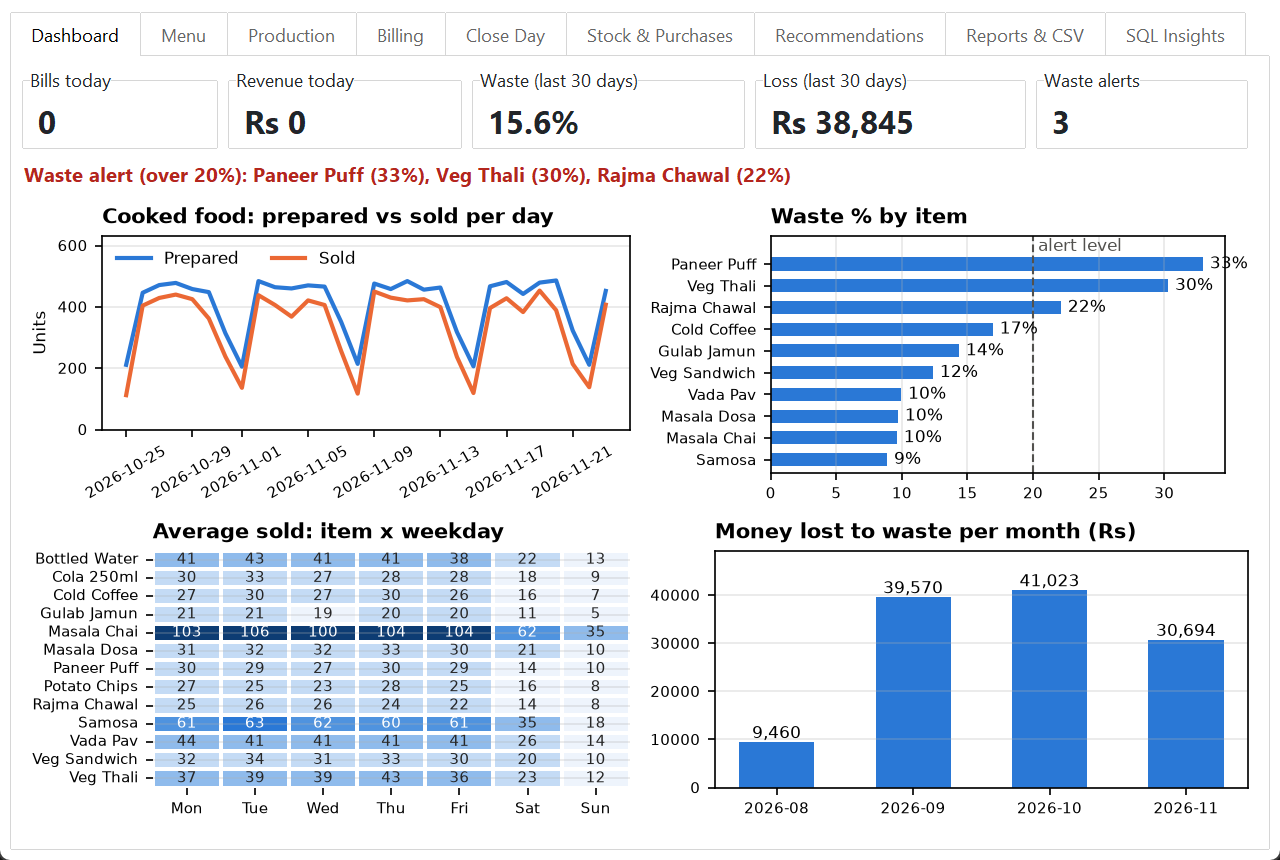
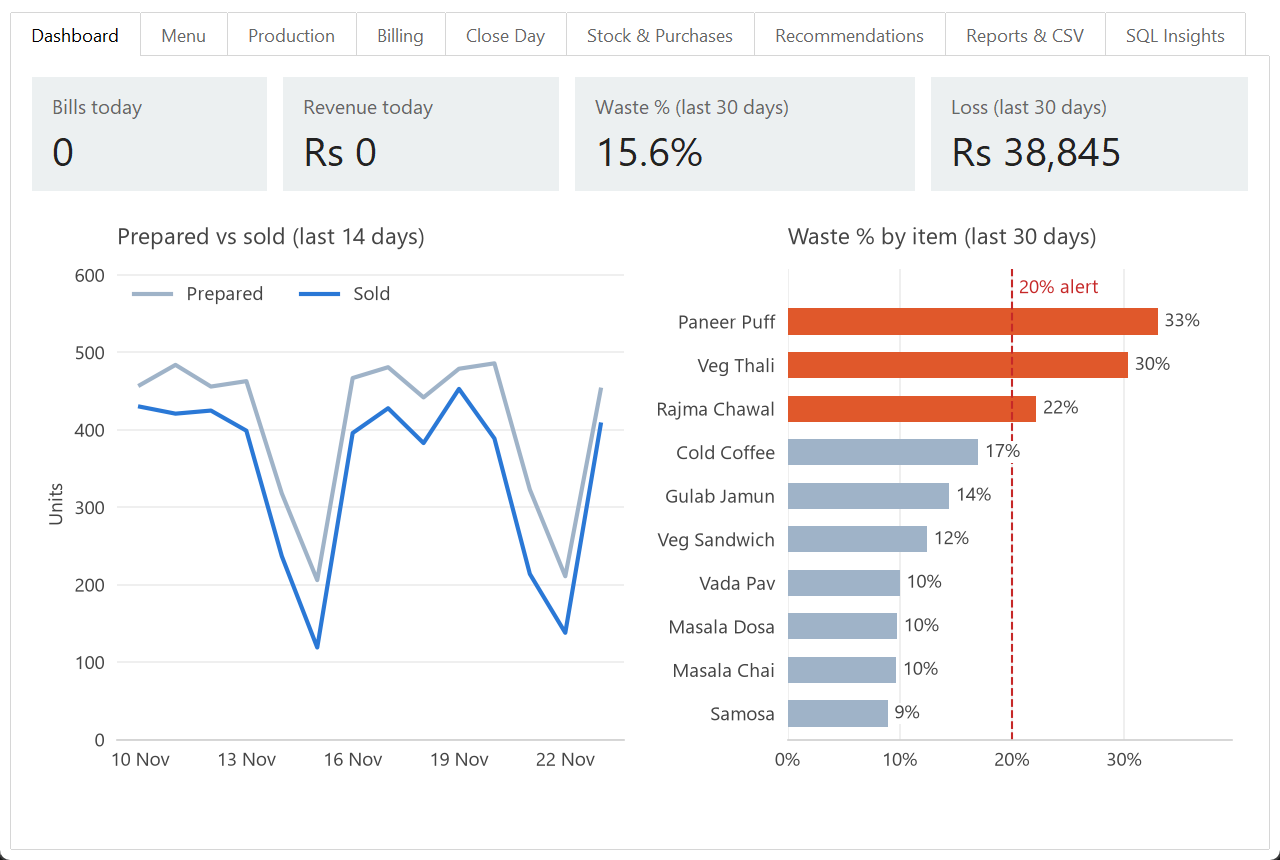
Redesign Dashboard: 4 KPI cards, 2 clean charts; move other charts to Reports tab
- One chart style: no box borders, light gridlines, same font, plain titles
- Waste % chart highlights items over the 20% alert in orange-red
- Heatmap replaced by average cooked food sold by weekday
- Monthly loss shows complete months only, with comma-formatted Rs
- Update README screenshots

diff --git a/app/charts.py b/app/charts.py
@@ -1,32 +1,46 @@
-"""The 4 dashboard charts, drawn with matplotlib and seaborn."""
+"""The 4 charts (2 on the Dashboard, 2 on the Reports tab), drawn with matplotlib and seaborn."""
 
+from datetime import date
+
+import matplotlib
 import pandas as pd
 import seaborn as sns
+from matplotlib.backends.backend_tkagg import FigureCanvasTkAgg
 from matplotlib.figure import Figure
 
 from app import analysis, db
 from app.algorithms import merge_sort
 
 BLUE = "#2a78d6"
-ORANGE = "#eb6834"
-GREY = "#52514e"
-HEATMAP_COLOURS = ["#eef4fc", "#c4dbf5", "#8fbbec", "#4f93df", "#2a78d6", "#1d5aa6", "#0d3c73"]   # light -> dark
+GREY_BLUE = "#9fb3c8"
+ALERT = "#e0582b"            # orange-red, used only for waste alerts
+RED = "#c62828"
+TEXT = "#444444"
+LIGHT = "#d0d0d0"
 WEEKDAYS = ["Mon", "Tue", "Wed", "Thu", "Fri", "Sat", "Sun"]
 
+# One style for every chart: same font, small text, no bold titles.
+matplotlib.rcParams.update({"font.family": ["Segoe UI", "DejaVu Sans"], "font.size": 9,
+                            "text.color": TEXT, "axes.labelcolor": TEXT,
+                            "xtick.color": TEXT, "ytick.color": TEXT})
 
-def new_chart(title):
-    """A blank chart with a title and a light grid."""
-    fig = Figure(figsize=(5.6, 2.05), dpi=100, layout="constrained")
+
+def new_chart(title, grid_axis="y"):
+    """A blank chart: title, light gridlines, only a light bottom axis."""
+    fig = Figure(figsize=(6, 3.7), dpi=100, layout="constrained")
     ax = fig.add_subplot()
-    ax.set_title(title, loc="left", fontsize=10, fontweight="bold")
-    ax.tick_params(labelsize=7)
-    ax.grid(axis="y", alpha=0.3)
+    ax.set_title(title, loc="left", fontsize=11, pad=12)
+    sns.despine(ax=ax, left=True)                      # remove the box, keep the bottom axis
+    ax.spines["bottom"].set_color(LIGHT)
+    ax.tick_params(length=0, pad=6)
+    ax.grid(axis=grid_axis, color="#ececec")
+    ax.set_axisbelow(True)
     return fig, ax
 
 
 def prepared_vs_sold(rows):
     """Line chart: total cooked food prepared vs sold per day."""
-    fig, ax = new_chart("Cooked food: prepared vs sold per day")
+    fig, ax = new_chart("Prepared vs sold (last 14 days)")
     days = {}                                         # date -> [prepared, sold]
     for row in rows:
         if row["Is_Perishable"]:
@@ -34,62 +48,82 @@ def prepared_vs_sold(rows):
             totals[0] += row["Quantity_Prepared"]
             totals[1] += row["Quantity_Sold"]
     dates = merge_sort(list(days))
-    ax.plot(dates, [days[d][0] for d in dates], color=BLUE, linewidth=2, label="Prepared")
-    ax.plot(dates, [days[d][1] for d in dates], color=ORANGE, linewidth=2, label="Sold")
-    ax.set_ylim(0, max(days[d][0] for d in dates) * 1.3)     # room above the lines for the legend
-    ax.legend(frameon=False, fontsize=8, loc="upper left", ncols=2)
-    ax.set_ylabel("Units", fontsize=8)
-    ax.tick_params(axis="x", rotation=30)              # tilted so the dates do not overlap
+    x = range(len(dates))
+    ax.plot(x, [days[d][0] for d in dates], color=GREY_BLUE, linewidth=2, label="Prepared")
+    ax.plot(x, [days[d][1] for d in dates], color=BLUE, linewidth=2, label="Sold")
+    ax.set_xticks(x[::3], [f"{d.day} {d:%b}" for d in dates[::3]])     # about 5 labels, e.g. "25 Oct"
+    ax.set_ylim(0, max(days[d][0] for d in dates) * 1.25)              # room above the lines for the legend
+    ax.legend(frameon=False, loc="upper left", ncols=2)
+    ax.set_ylabel("Units")
     return fig
 
 
 def waste_by_item(summary):
-    """Bar chart: waste % per cooked item, with the alert level."""
-    fig, ax = new_chart("Waste % by item")
+    """Bar chart: waste % per cooked item; items over the alert level in orange-red."""
+    fig, ax = new_chart("Waste % by item (last 30 days)", grid_axis="x")
     items = merge_sort([i for i in summary if i["perishable"]], key=lambda i: i["waste_pct"])
-    ax.barh([i["name"] for i in items], [i["waste_pct"] for i in items], color=BLUE, height=0.6)
-    ax.axvline(analysis.WASTE_ALERT_PCT, color=GREY, linestyle="--", linewidth=1)
-    ax.text(analysis.WASTE_ALERT_PCT, len(items) - 0.4, " alert level", color=GREY, fontsize=8)
-    ax.set_ylim(-0.6, len(items) + 0.3)                 # room above the top bar for the label
+    limit = analysis.WASTE_ALERT_PCT
+    colours = [ALERT if i["waste_pct"] > limit else GREY_BLUE for i in items]
+    ax.barh([i["name"] for i in items], [i["waste_pct"] for i in items], color=colours, height=0.6)
     for y, item in enumerate(items):
-        ax.text(item["waste_pct"] + 0.5, y, f"{item['waste_pct']:.0f}%", va="center", fontsize=8)
-    ax.grid(axis="y", visible=False)
-    ax.grid(axis="x", alpha=0.3)
+        ax.text(item["waste_pct"] + 0.6, y, f"{item['waste_pct']:.0f}%", va="center",
+                bbox={"facecolor": "white", "edgecolor": "none", "pad": 1})   # white box so the line does not cross it
+    ax.axvline(limit, color=RED, linestyle="--", linewidth=1)
+    ax.text(limit + 0.6, len(items) - 0.35, f"{limit}% alert", color=RED)   # in the empty row above the bars
+    ax.set_ylim(-0.6, len(items) + 0.2)
+    ax.set_xlim(0, max(max(i["waste_pct"] for i in items), limit) * 1.2)    # room for the % labels
+    ax.xaxis.set_major_formatter("{x:.0f}%")
     return fig
 
 
-def weekday_heatmap(rows):
-    """Heatmap: average units sold of each item on each day of the week."""
-    fig, ax = new_chart("Average sold: item x weekday")
+def weekday_sales(rows):
+    """Bar chart: average cooked units sold on each day of the week."""
+    fig, ax = new_chart("Average cooked food sold by weekday")
     df = pd.DataFrame(rows)
-    df["Weekday"] = pd.to_datetime(df["Demand_Date"]).dt.day_of_week
-    table = df.pivot_table(index="Food_Name", columns="Weekday", values="Quantity_Sold", aggfunc="mean")
-    table.columns = [WEEKDAYS[d] for d in table.columns]
-    sns.heatmap(table, ax=ax, cmap=HEATMAP_COLOURS, annot=True, fmt=".0f", annot_kws={"fontsize": 7},
-                linewidths=1, linecolor="white", cbar=False)
-    ax.set_xlabel("")
-    ax.set_ylabel("")
+    df = df[df["Is_Perishable"] == 1]
+    per_day = df.groupby("Demand_Date")["Quantity_Sold"].sum().reset_index()       # total sold each day
+    per_day["Weekday"] = pd.to_datetime(per_day["Demand_Date"]).dt.day_of_week
+    averages = per_day.groupby("Weekday")["Quantity_Sold"].mean()
+    ax.bar([WEEKDAYS[d] for d in averages.index], averages.values, color=BLUE, width=0.6)
+    ax.set_ylabel("Units")
     return fig
 
 
-def monthly_loss_chart(rows):
-    """Bar chart: money lost to waste each month."""
-    fig, ax = new_chart("Money lost to waste per month (Rs)")
-    months = [r["Month"] for r in rows]
+def monthly_loss_chart(rows, first_day):
+    """Bar chart: money lost to waste in each complete month."""
+    fig, ax = new_chart("Money lost to waste per month")
+    start = f"{first_day:%Y-%m}"                # complete only if the data starts on the 1st
+    this_month = f"{date.today():%Y-%m}"        # still running, so not complete
+    rows = [r for r in rows if this_month > r["Month"] > start or (r["Month"] == start and first_day.day == 1)]
+    labels = [pd.Timestamp(r["Month"] + "-01").strftime("%b %Y") for r in rows]
     losses = [float(r["Loss"]) for r in rows]
-    ax.bar(months, losses, color=BLUE, width=0.55)
-    ax.set_ylim(0, max(losses) * 1.2)                   # room above the bars for the numbers
+    ax.bar(labels, losses, color=BLUE, width=0.5)
     for x, loss in enumerate(losses):
-        ax.text(x, loss, f"{loss:,.0f}", ha="center", va="bottom", fontsize=8)
+        ax.text(x, loss, f"Rs {loss:,.0f}", ha="center", va="bottom")
+    ax.set_ylim(0, max(losses, default=1) * 1.2)       # room above the bars for the numbers
+    ax.yaxis.set_major_formatter("{x:,.0f}")
+    ax.set_ylabel("Rs")
     return fig
 
 
-def all_charts():
-    """All 4 charts as {name: Figure}."""
-    rows_30 = analysis.load_days(30)
-    return {
-        "prepared_vs_sold": prepared_vs_sold(rows_30),
-        "waste_by_item": waste_by_item(analysis.item_summary(rows_30)),
-        "weekday_heatmap": weekday_heatmap(analysis.load_days(90)),
-        "monthly_loss": monthly_loss_chart(db.monthly_loss()),
-    }
+def dashboard_charts():
+    """The 2 Dashboard charts as {name: Figure}."""
+    return {"prepared_vs_sold": prepared_vs_sold(analysis.load_days(14)),
+            "waste_by_item": waste_by_item(analysis.item_summary(analysis.load_days(30)))}
+
+
+def report_charts():
+    """The 2 Reports-tab charts as {name: Figure}."""
+    return {"weekday_sales": weekday_sales(analysis.load_days(90)),
+            "monthly_loss": monthly_loss_chart(db.monthly_loss(), db.first_closed_day())}
+
+
+def show(figures, frame):
+    """Draw the figures side by side inside a Tkinter frame."""
+    for widget in frame.winfo_children():
+        widget.destroy()
+    for column, fig in enumerate(figures.values()):
+        canvas = FigureCanvasTkAgg(fig, master=frame)
+        canvas.draw()
+        canvas.get_tk_widget().grid(row=0, column=column, padx=10, pady=10, sticky="nsew")
+        frame.columnconfigure(column, weight=1)

diff --git a/app/gui/dashboard_tab.py b/app/gui/dashboard_tab.py
@@ -1,9 +1,8 @@
-"""Dashboard tab: KPI cards, waste alerts and the 4 charts."""
+"""Dashboard tab: 4 KPI cards and 2 charts."""
 
 from datetime import date
 
 import ttkbootstrap as ttk
-from matplotlib.backends.backend_tkagg import FigureCanvasTkAgg
 
 from app import analysis, charts, db
 
@@ -12,25 +11,26 @@ class DashboardTab(ttk.Frame):
     """Overview of today and the last 30 days."""
 
     def __init__(self, parent):
-        super().__init__(parent, padding=10)
+        super().__init__(parent, padding=20)
         self.cards = ttk.Frame(self)
-        self.cards.pack(fill="x")
-        self.alerts = ttk.Label(self, foreground="#b3261e", font=("Segoe UI", 10, "bold"))
-        self.alerts.pack(anchor="w", pady=8)
+        self.cards.pack(fill="x", pady=(0, 20))
         self.chart_area = ttk.Frame(self)
         self.chart_area.pack(fill="both", expand=True)
         self.refresh()
 
     def card(self, column, title, value):
-        """One KPI card: a title and a big number."""
-        box = ttk.Labelframe(self.cards, text=title, padding=(12, 2))
-        box.grid(row=0, column=column, padx=(0, 10), sticky="ew")
+        """One KPI card: a small title and a big number."""
+        box = ttk.Frame(self.cards, bootstyle="light", padding=(18, 12))
+        box.grid(row=0, column=column, padx=(0 if column == 0 else 16, 0), sticky="ew")
         self.cards.columnconfigure(column, weight=1)
-        ttk.Label(box, text=value, font=("Segoe UI", 16, "bold")).pack(anchor="w")
+        ttk.Label(box, text=title, bootstyle="inverse-light", foreground="#666666",
+                  font=("Segoe UI", 10)).pack(anchor="w")
+        ttk.Label(box, text=value, bootstyle="inverse-light", foreground="#222222",
+                  font=("Segoe UI", 20)).pack(anchor="w")
 
     def refresh(self):
         """Reload all numbers and redraw the charts."""
-        for widget in self.cards.winfo_children() + self.chart_area.winfo_children():
+        for widget in self.cards.winfo_children():
             widget.destroy()
 
         today = db.sales_on(date.today())
@@ -38,19 +38,9 @@ class DashboardTab(ttk.Frame):
         cooked = [item for item in summary if item["perishable"]]
         prepared = sum(item["prepared"] for item in cooked)
         waste_pct = sum(item["wasted"] for item in cooked) * 100 / prepared if prepared else 0
-        alerts = analysis.waste_alerts(summary)
 
         self.card(0, "Bills today", today["bills"])
         self.card(1, "Revenue today", f"Rs {today['revenue']:,.0f}")
-        self.card(2, "Waste (last 30 days)", f"{waste_pct:.1f}%")
+        self.card(2, "Waste % (last 30 days)", f"{waste_pct:.1f}%")
         self.card(3, "Loss (last 30 days)", f"Rs {analysis.total_loss(summary):,.0f}")
-        self.card(4, "Waste alerts", len(alerts))
-        names = ", ".join(f"{a['name']} ({a['waste_pct']:.0f}%)" for a in alerts)
-        self.alerts.configure(text=f"Waste alert (over {analysis.WASTE_ALERT_PCT}%): {names}" if alerts
-                              else "No waste alerts.")
-
-        for i, fig in enumerate(charts.all_charts().values()):
-            canvas = FigureCanvasTkAgg(fig, master=self.chart_area)
-            canvas.draw()
-            canvas.get_tk_widget().grid(row=i // 2, column=i % 2, padx=4, pady=4, sticky="nsew")
-        self.chart_area.columnconfigure((0, 1), weight=1)
+        charts.show(charts.dashboard_charts(), self.chart_area)

diff --git a/app/gui/reports_tab.py b/app/gui/reports_tab.py
@@ -4,32 +4,37 @@ from tkinter import filedialog
 
 import ttkbootstrap as ttk
 
-from app import csv_io, db, reports
+from app import charts, csv_io, db, reports
 
 
 class ReportsTab(ttk.Frame):
-    """Import and export buttons with an output box."""
+    """Import and export buttons, an output box and 2 report charts."""
 
     def __init__(self, parent):
         super().__init__(parent, padding=10)
-        box = ttk.Labelframe(self, text="Import past days (CSV: date,food,prepared,sold)", padding=12)
-        box.pack(fill="x")
+        row = ttk.Frame(self)
+        row.pack(fill="x")
+        box = ttk.Labelframe(row, text="Import past days (CSV: date,food,prepared,sold)", padding=12)
+        box.pack(side="left", fill="y")
         ttk.Button(box, text="Import CSV file...", command=self.import_csv).pack(anchor="w")
 
-        box = ttk.Labelframe(self, text="Export", padding=12)
-        box.pack(fill="x", pady=10)
+        box = ttk.Labelframe(row, text="Export", padding=12)
+        box.pack(side="left", fill="both", expand=True, padx=(10, 0))
         self.report = ttk.StringVar(value=list(reports.REPORTS)[0])
         ttk.Combobox(box, textvariable=self.report, values=list(reports.REPORTS), state="readonly",
-                     width=32).pack(side="left")
+                     width=28).pack(side="left")
         ttk.Button(box, text="Export to CSV...", command=self.export_one).pack(side="left", padx=6)
-        ttk.Button(box, text="Export full report (CSVs + charts)", bootstyle="success",
+        ttk.Button(box, text="Export full report", bootstyle="success",
                    command=self.export_all).pack(side="left", padx=6)
 
-        self.output = ttk.Text(self, height=20, font=("Consolas", 10))
-        self.output.pack(fill="both", expand=True)
+        self.output = ttk.Text(self, height=2, font=("Consolas", 10))
+        self.output.pack(fill="x", pady=(10, 0))
+        self.chart_area = ttk.Frame(self)
+        self.chart_area.pack(fill="both", expand=True, pady=(10, 0))
 
     def refresh(self):
-        """Nothing to reload on this tab."""
+        """Redraw the 2 report charts."""
+        charts.show(charts.report_charts(), self.chart_area)
 
     def write(self, text):
         """Show a message in the output box."""

diff --git a/app/db.py b/app/db.py
@@ -190,6 +190,11 @@ def monthly_loss():
     return run_query("SELECT * FROM v_monthly_loss ORDER BY Month")
 
 
+def first_closed_day():
+    """Date of the oldest closed day in the records."""
+    return run_query("SELECT MIN(Demand_Date) AS First_Day FROM daily_demand WHERE Is_Closed = TRUE")[0]["First_Day"]
+
+
 def daily_waste(days=30):
     """Daily waste figures for the last `days` days."""
     return run_query("SELECT * FROM v_daily_waste WHERE Demand_Date >= CURDATE() - INTERVAL %s DAY "

diff --git a/app/reports.py b/app/reports.py
@@ -39,7 +39,7 @@ def export_full_report():
             path = REPORTS_DIR / f"{stamp}_{name.split(' (')[0].lower().replace(' ', '_')}.csv"
             csv_io.export_rows(rows, path)
             files.append(path)
-    for name, fig in charts.all_charts().items():
+    for name, fig in {**charts.dashboard_charts(), **charts.report_charts()}.items():
         path = REPORTS_DIR / f"{stamp}_{name}.png"
         fig.savefig(path, dpi=150)
         files.append(path)

diff --git a/README.md b/README.md
@@ -18,7 +18,7 @@ Built as one project for two 3rd-semester labs:
 - **Recommendations**: rule-based and explainable, with the reason stored for each item.
 - **Stock & purchases**: stock levels, low-stock warning, suppliers, purchase entry.
 - **CSV import & export**: import past days (bad rows are skipped and reported), export any report, or export a full report of CSVs and chart PNGs.
-- **Dashboard**: KPI cards and 4 charts.
+- **Dashboard**: 4 KPI cards and 2 charts (prepared vs sold, waste % by item). The Reports tab shows 2 more (sales by weekday, monthly loss).
 - **SQL Insights**: run any of the 20 analytical queries from inside the app.
 
 ## Tech stack
@@ -182,7 +182,7 @@ rows on purpose, to show how they are reported.
 
 ## Screenshots
 
-**Dashboard**: KPIs, waste alerts and the 4 charts
+**Dashboard**: 4 KPIs, prepared vs sold, and waste % by item (items over the 20% alert in orange)
 ![Dashboard](screenshots/dashboard.png)
 
 **Billing**
@@ -190,6 +190,9 @@ rows on purpose, to show how they are reported.
 
 **Recommendations**: quantity for tomorrow and the reason for each
 ![Recommendations](screenshots/recommendations.png)
+
+**Reports & CSV**: CSV import/export, sales by weekday and monthly loss
+![Reports & CSV](screenshots/reports.png)
 
 **SQL Insights**: analytical queries run from the app (here: `RANK()` window function)
 ![SQL Insights](screenshots/sql_insights.png)
